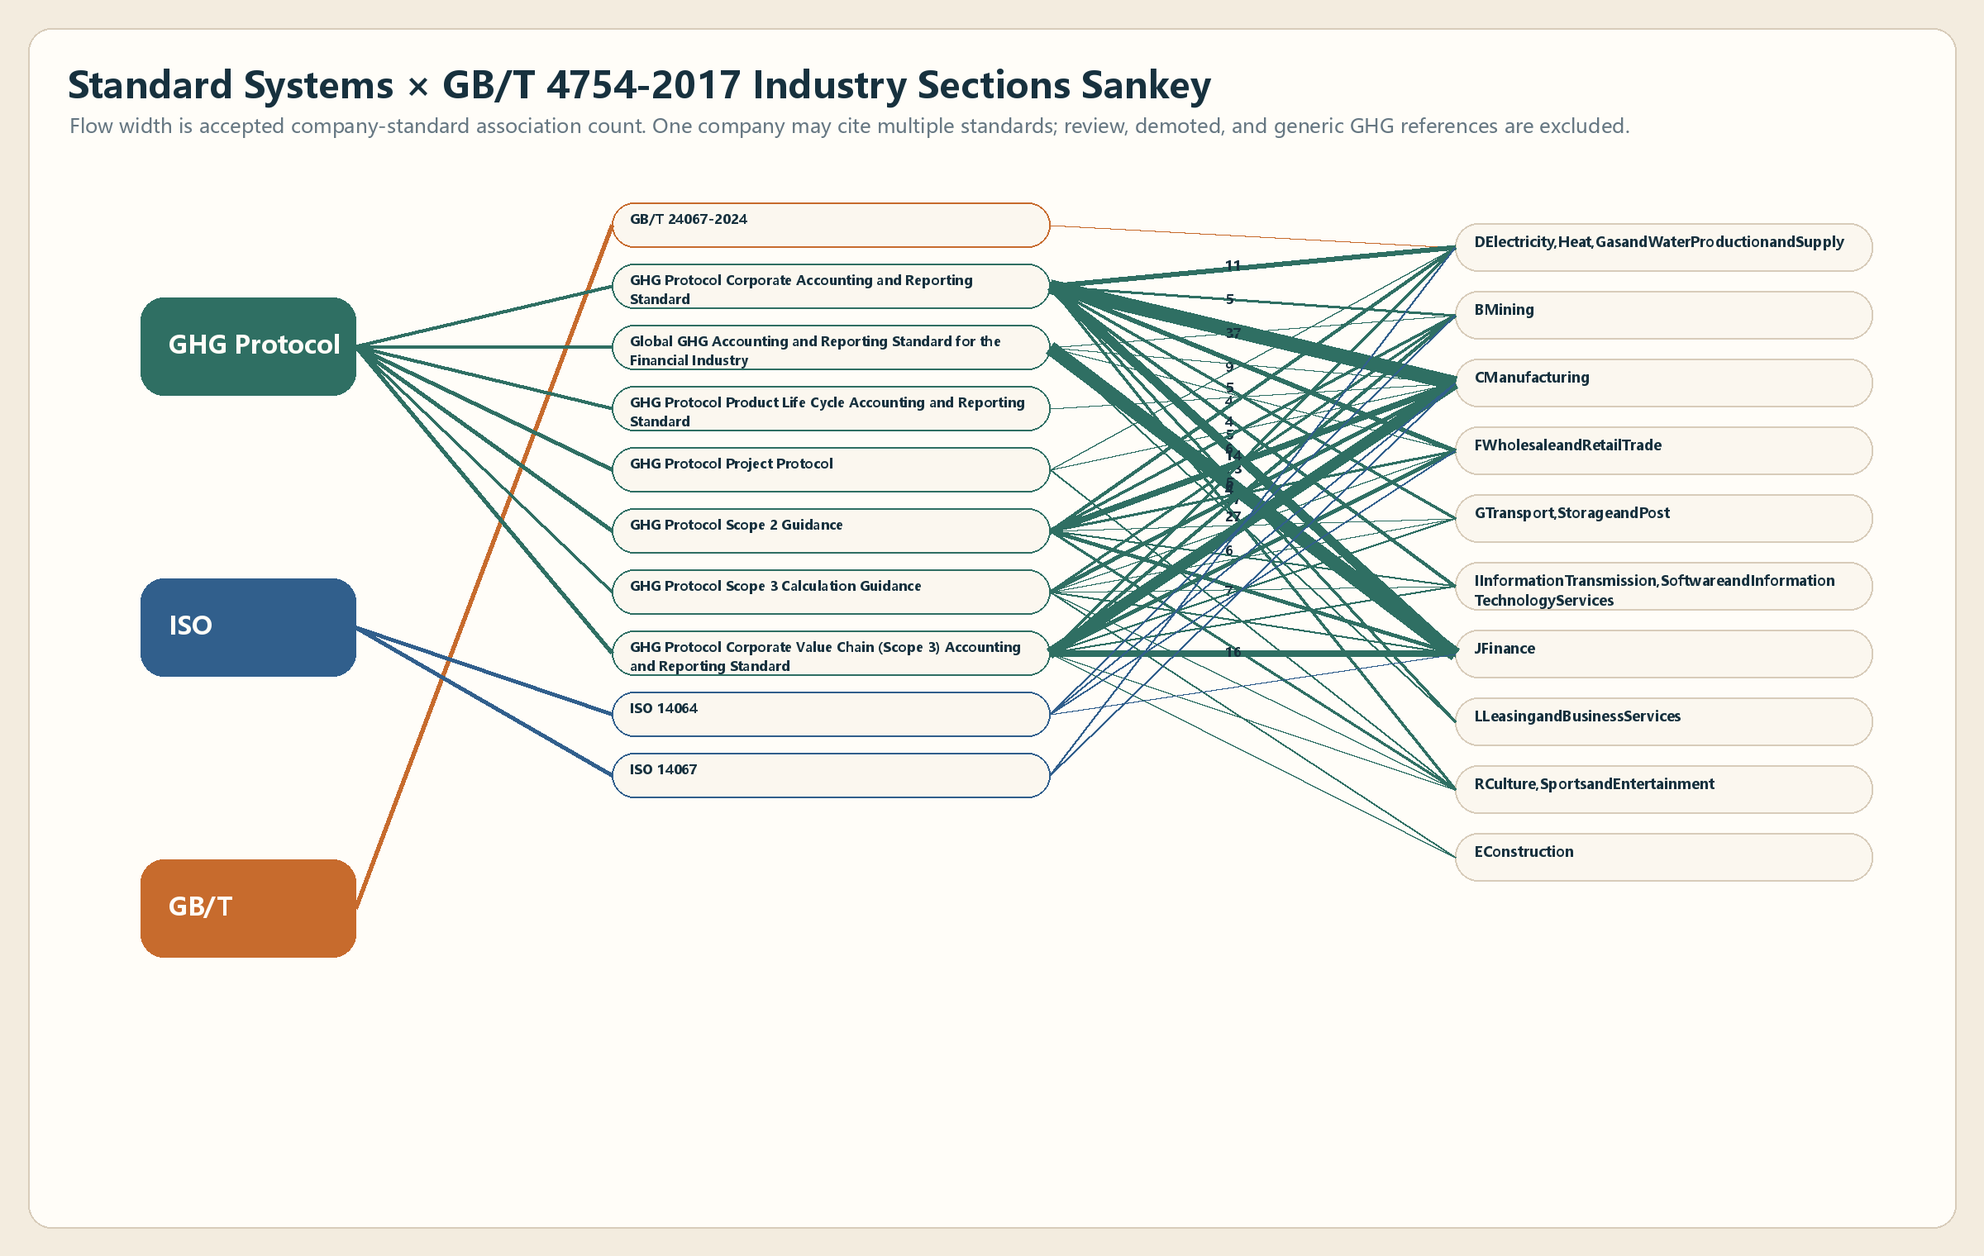
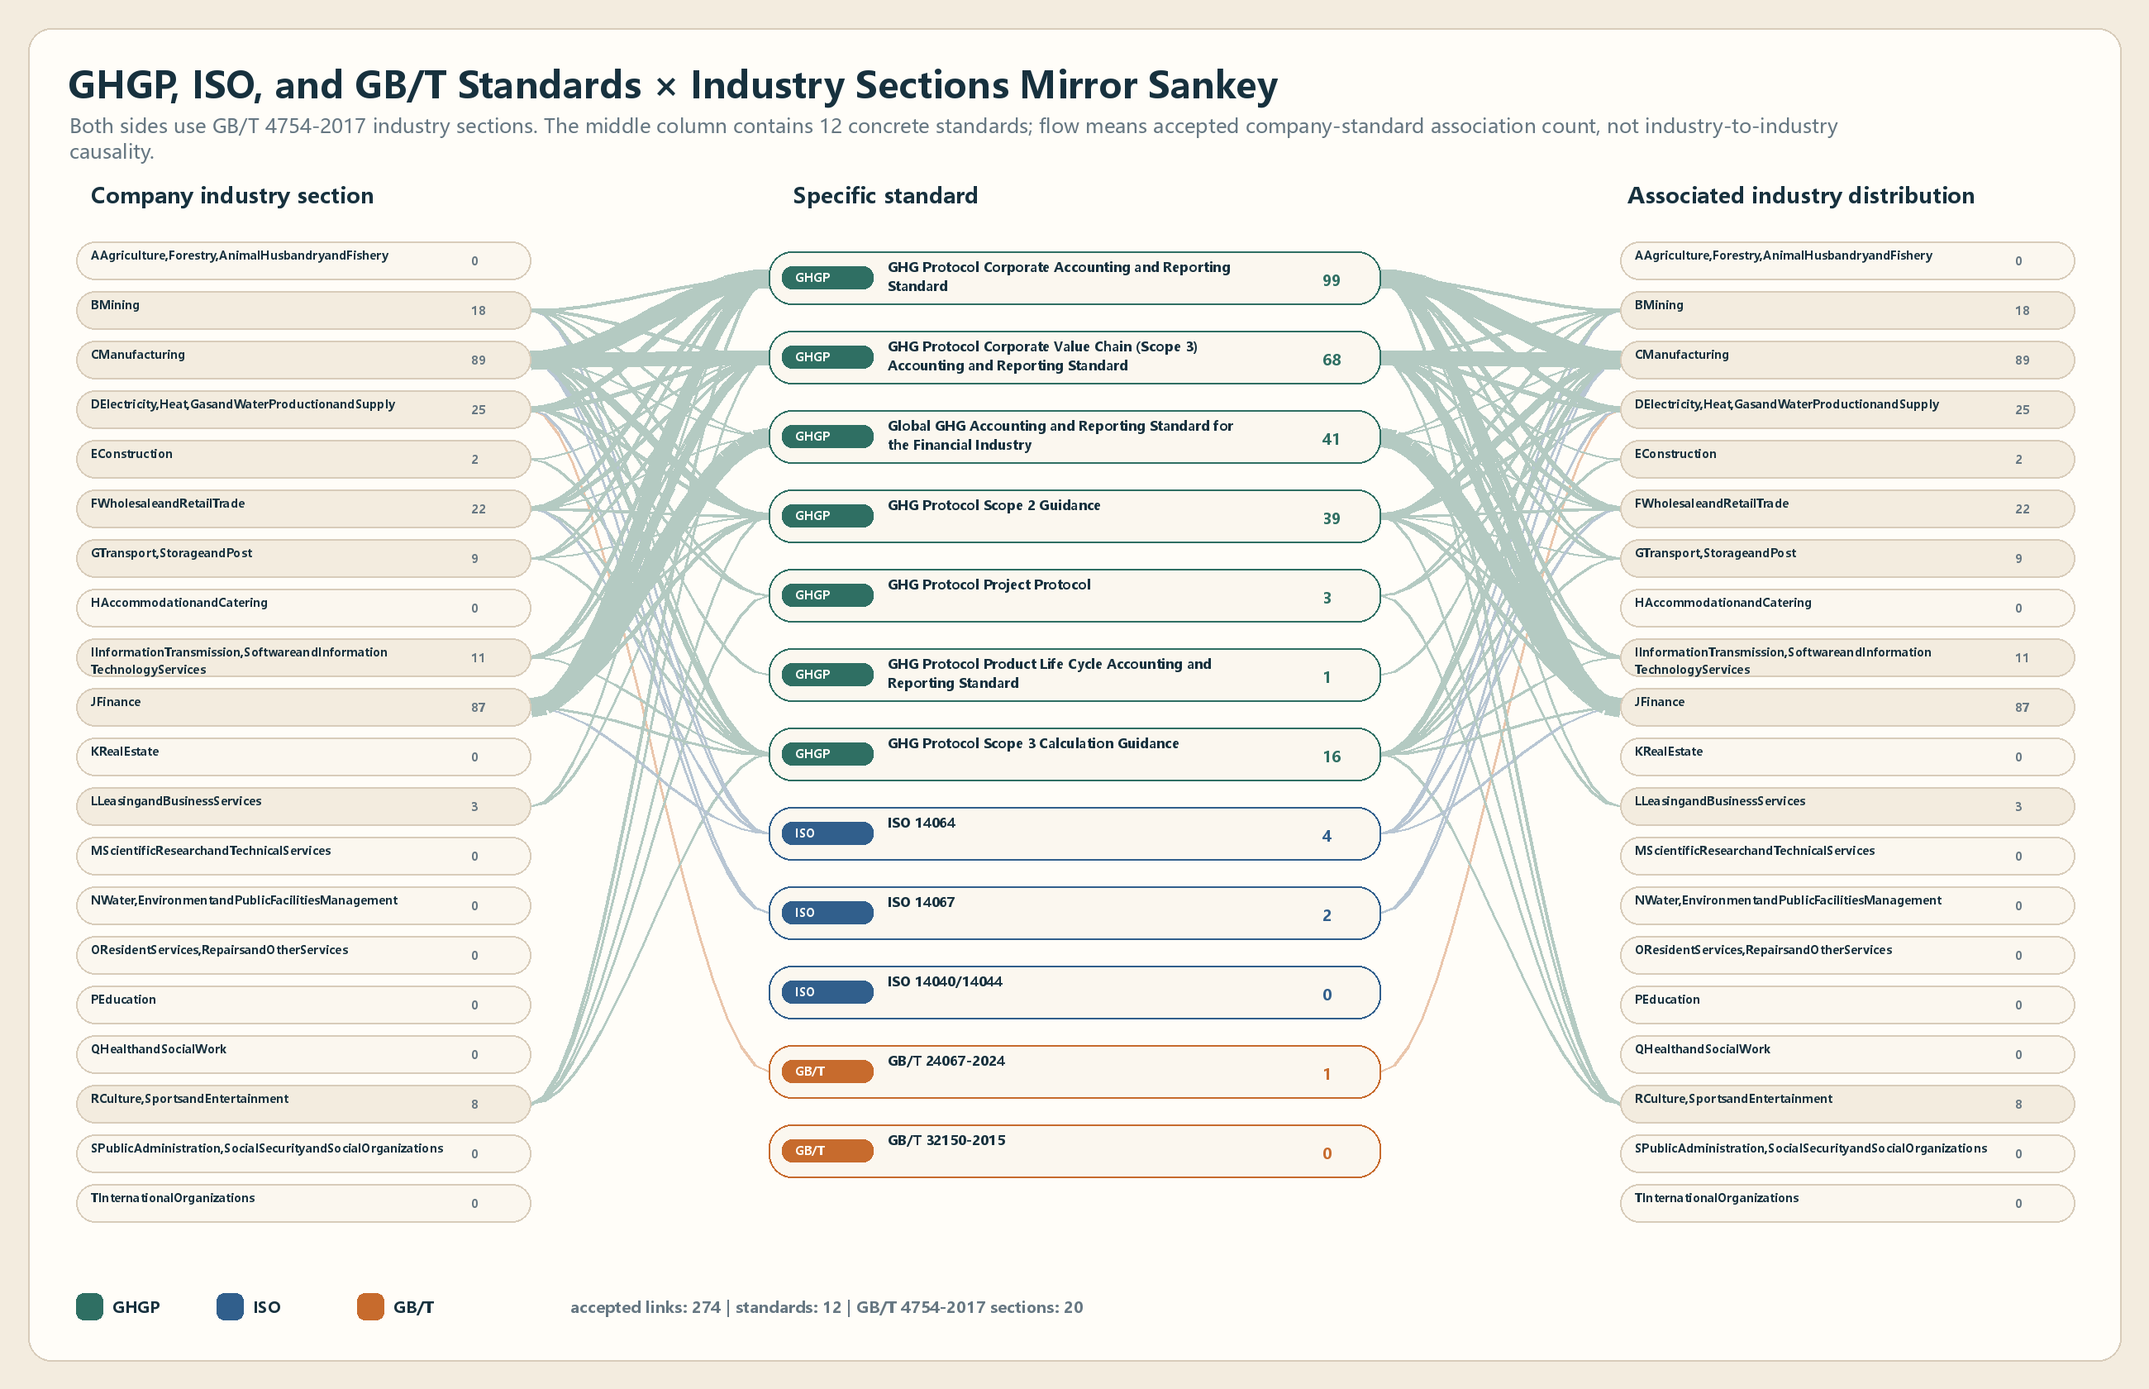
Fix standard industry mirror Sankey

diff --git a/assets/js/industry_outputs_widgets.js b/assets/js/industry_outputs_widgets.js
@@ -7,8 +7,8 @@
 
   const text = {
     zh: {
-      sankeyTitle: "标准体系 × GB/T 4754-2017 行业门类桑基图",
-      sankeyLead: "行业节点采用 GB/T 4754-2017 门类口径；流量表示 accepted 企业-标准关联数。同一企业可能关联多个标准，因此流量总和不等于去重企业总数。12 个展示标准以 registry 为准，暂无 accepted flow 的指定标准保留在下载清单中作为待补证据节点。",
+      sankeyTitle: "GHGP、ISO、GB/T 标准与国民经济行业门类的宏观关联分布",
+      sankeyLead: "镜像桑基图采用“企业所属行业 → 具体标准 → 关联行业分布”三栏结构。左右两侧均为 GB/T 4754-2017 国民经济行业门类，中间为需求方指定的 12 个具体标准节点；流量表示 accepted 企业-标准关联数，不表示行业之间的流动或因果关系。",
       primaryTitle: "初级/次级数据证据链导出",
       primaryLead: "强证据层只包含企业报告原文明示 primary-data 百分比；method-row 来源结构推断不等同于审计级计算权重，缺披露不等于 0。",
       emissionsTitle: "完整可比总排放主榜与行业门类排行",
@@ -32,8 +32,8 @@
       tableMissing: "未入完整主榜",
     },
     en: {
-      sankeyTitle: "Standard Systems × GB/T 4754-2017 Industry Sections Sankey",
-      sankeyLead: "Industry nodes use GB/T 4754-2017 section-level classes. Flow means accepted company-standard association count; one company may cite multiple standards. The 12 display standards follow the registry; requested standards without accepted flow are kept in the downloadable registry as evidence-pending nodes.",
+      sankeyTitle: "GHGP, ISO, and GB/T Standards × Industry Sections Mirror Sankey",
+      sankeyLead: "This mirror Sankey uses a three-column structure: company industry section → concrete standard → associated industry distribution. Both sides use the same GB/T 4754-2017 industry-section taxonomy; the middle column contains the 12 requested concrete standards. Flow means accepted company-standard association count, not industry-to-industry movement or causality.",
       primaryTitle: "Primary / Secondary Evidence Chain Exports",
       primaryLead: "Only explicitly reported primary-data percentages are strong evidence. Method-row source-mix inference is not an audit-grade calculation weight; missing disclosure is not zero.",
       emissionsTitle: "Complete Comparable Emissions Ranking and Industry Sections",

diff --git a/reporting-completion-audit.html b/reporting-completion-audit.html
@@ -22,7 +22,7 @@
 <ul>
 <li>生成时间：2026-06-21</li>
 <li>审计矩阵日期：2026-06-07</li>
-<li>PNG manifest 生成时间：2026-07-07T15:17:31+00:00</li>
+<li>PNG manifest 生成时间：2026-07-08T02:46:43+00:00</li>
 <li>总体状态：partial</li>
 <li>是否可以声明全部完成：不可</li>
 </ul>

diff --git a/tools/sync_industry_static_figures.py b/tools/sync_industry_static_figures.py
@@ -1,0 +1,276 @@
+# /// script
+# requires-python = ">=3.11"
+# dependencies = ["Pillow"]
+# ///
+# How to run:
+#   python tools/sync_industry_static_figures.py
+from __future__ import annotations
+
+import hashlib
+import json
+from datetime import UTC, datetime
+from functools import lru_cache
+from pathlib import Path
+from typing import Final
+
+from PIL import Image, ImageDraw, ImageFont
+
+
+ROOT: Final = Path(__file__).resolve().parents[1]
+WB: Final = ROOT / "assets" / "data" / "world500" / "workbench"
+FIGURES: Final = ROOT / "assets" / "figures"
+MANIFEST: Final = FIGURES / "reporting_static_figures_manifest.json"
+PALETTE: Final = {
+    "bg": "#f3ecdf",
+    "paper": "#fffdf8",
+    "ink": "#17313e",
+    "muted": "#667782",
+    "line": "#d8ccba",
+    "ghg": "#2f6f63",
+    "iso": "#315f8c",
+    "gb": "#c76b2d",
+    "warn": "#9b3b2f",
+}
+
+
+def read_rows(name: str) -> list[dict[str, str | int | float | list[str]]]:
+    payload = json.loads((WB / f"{name}.json").read_text(encoding="utf-8"))
+    return payload["rows"]
+
+
+def sha256(path: Path) -> str:
+    return hashlib.sha256(path.read_bytes()).hexdigest()
+
+
+@lru_cache(maxsize=None)
+def font(size: int, bold: bool = False) -> ImageFont.FreeTypeFont | ImageFont.ImageFont:
+    candidates = [
+        "C:/Windows/Fonts/msyhbd.ttc" if bold else "C:/Windows/Fonts/msyh.ttc",
+        "C:/Windows/Fonts/arialbd.ttf" if bold else "C:/Windows/Fonts/arial.ttf",
+    ]
+    for candidate in candidates:
+        path = Path(candidate)
+        if path.exists():
+            return ImageFont.truetype(str(path), size)
+    return ImageFont.load_default()
+
+
+def wrap(draw: ImageDraw.ImageDraw, text: str, fnt: ImageFont.ImageFont, width: int, max_lines: int = 2) -> list[str]:
+    value = " ".join(str(text or "").split())
+    if not value:
+        return []
+    lines: list[str] = []
+    current = ""
+    chars = list(value) if any("\u4e00" <= char <= "\u9fff" for char in value) else value.split()
+    joiner = "" if chars and len(chars[0]) == 1 else " "
+    for token in chars:
+        probe = f"{current}{joiner}{token}".strip()
+        if draw.textbbox((0, 0), probe, font=fnt)[2] <= width:
+            current = probe
+        else:
+            if current:
+                lines.append(current)
+            current = token
+    if current:
+        lines.append(current)
+    if len(lines) > max_lines:
+        lines = lines[:max_lines]
+        lines[-1] = f"{lines[-1].rstrip(' .,;')}..."
+    return lines
+
+
+def text(draw: ImageDraw.ImageDraw, xy: tuple[int, int], value: str, size: int, color: str, width: int, bold: bool = False) -> None:
+    x, y = xy
+    fnt = font(size, bold)
+    for index, line in enumerate(wrap(draw, value, fnt, width, 2)):
+        draw.text((x, y + index * (size + 7)), line, font=fnt, fill=color)
+
+
+def rounded(draw: ImageDraw.ImageDraw, box: tuple[int, int, int, int], fill: str, outline: str = PALETTE["line"]) -> None:
+    draw.rounded_rectangle(box, radius=28, fill=fill, outline=outline, width=2)
+
+
+def render_sankey(lang: str) -> Path:
+    links = read_rows("world500_standard_industry_section_sankey_links")
+    registry = read_rows("standard_industry_sankey_registry")
+    sections = read_rows("national_industry_section_registry")
+    image = Image.new("RGB", (2600, 1680), PALETTE["bg"])
+    draw = ImageDraw.Draw(image)
+    rounded(draw, (34, 34, 2566, 1646), PALETTE["paper"])
+    title = "GHGP、ISO、GB/T 标准与国民经济行业门类的宏观关联分布" if lang == "zh" else "GHGP, ISO, and GB/T Standards × Industry Sections Mirror Sankey"
+    note = "左右两侧均为 GB/T 4754-2017 行业门类，中间为 12 个具体标准节点；流量表示 accepted 企业-标准关联数，镜像布局不表示行业间流动或因果关系。" if lang == "zh" else "Both sides use GB/T 4754-2017 industry sections. The middle column contains 12 concrete standards; flow means accepted company-standard association count, not industry-to-industry causality."
+    draw.text((82, 72), title, font=font(44, True), fill=PALETTE["ink"])
+    text(draw, (84, 135), note, 24, PALETTE["muted"], 2220)
+    column_labels = ("企业所属行业", "具体标准", "关联行业分布") if lang == "zh" else ("Company industry section", "Specific standard", "Associated industry distribution")
+    for x, label in zip((110, 960, 1970), column_labels, strict=True):
+        draw.text((x, 218), label, font=font(26, True), fill=PALETTE["ink"])
+    system_colors = {"GHG Protocol": PALETTE["ghg"], "ISO": PALETTE["iso"], "GB/T": PALETTE["gb"]}
+    flow_colors = {"GHG Protocol": (47, 111, 99, 92), "ISO": (49, 95, 140, 88), "GB/T": (199, 107, 45, 96)}
+    left_x1, left_x2 = 92, 642
+    mid_x1, mid_x2 = 930, 1670
+    right_x1, right_x2 = 1960, 2510
+    section_h, standard_h = 46, 64
+    section_top, standard_top = 292, 304
+    section_step = 60
+    standard_step = 96
+    section_y = {str(row["industry_section_code"]): section_top + index * section_step for index, row in enumerate(sections)}
+    standard_y = {str(row["internal_standard_id"]): standard_top + index * standard_step for index, row in enumerate(registry)}
+    section_total = {str(row["industry_section_code"]): 0 for row in sections}
+    standard_total = {str(row["internal_standard_id"]): 0 for row in registry}
+    for row in links:
+        count = int(row["accepted_link_count"])
+        section_total[str(row["industry_section_code"])] += count
+        standard_total[str(row["internal_standard_id"])] += count
+    max_count = max((int(row["accepted_link_count"]) for row in links), default=1)
+    overlay = Image.new("RGBA", image.size, (0, 0, 0, 0))
+    flow_draw = ImageDraw.Draw(overlay)
+    for row in sorted(links, key=lambda item: int(item["accepted_link_count"])):
+        count = int(row["accepted_link_count"])
+        code = str(row["industry_section_code"])
+        sid = str(row["internal_standard_id"])
+        system = str(row["standard_system"])
+        width = 2 + round(22 * count / max_count)
+        ly = section_y[code] + section_h // 2
+        sy = standard_y[sid] + standard_h // 2
+        points = []
+        for step in range(18):
+            t = step / 17
+            ease = t * t * (3 - 2 * t)
+            points.append((round(left_x2 + (mid_x1 - left_x2) * t), round(ly + (sy - ly) * ease)))
+        flow_draw.line(points, fill=flow_colors[system], width=width)
+        points = []
+        for step in range(18):
+            t = step / 17
+            ease = t * t * (3 - 2 * t)
+            points.append((round(mid_x2 + (right_x1 - mid_x2) * t), round(sy + (ly - sy) * ease)))
+        flow_draw.line(points, fill=flow_colors[system], width=width)
+    image = Image.alpha_composite(image.convert("RGBA"), overlay).convert("RGB")
+    draw = ImageDraw.Draw(image)
+    for row in sections:
+        code = str(row["industry_section_code"])
+        name = str(row["industry_section_name_zh" if lang == "zh" else "industry_section_name_en"])
+        y = section_y[code]
+        fill = PALETTE["bg"] if section_total[code] else "#fbf7ef"
+        for x1, x2 in ((left_x1, left_x2), (right_x1, right_x2)):
+            rounded(draw, (x1, y, x2, y + section_h), fill)
+            text(draw, (x1 + 18, y + 7), f"{code} {name}", 14, PALETTE["ink"], x2 - x1 - 112, True)
+            draw.text((x2 - 72, y + 13), str(section_total[code]), font=font(15, True), fill=PALETTE["muted"])
+    for row in registry:
+        sid = str(row["internal_standard_id"])
+        system = str(row["display_system"])
+        y = standard_y[sid]
+        name = str(row["display_standard_name_zh" if lang == "zh" else "display_standard_name_en"])
+        if lang == "zh":
+            name = name.replace("GHG Protocol", "GHGP")
+        color = system_colors[system]
+        rounded(draw, (mid_x1, y, mid_x2, y + standard_h), "#fbf7ef", color)
+        draw.rounded_rectangle((mid_x1 + 16, y + 18, mid_x1 + 126, y + 45), radius=12, fill=color)
+        draw.text((mid_x1 + 32, y + 22), system.replace(" Protocol", "P"), font=font(14, True), fill=PALETTE["paper"])
+        text(draw, (mid_x1 + 144, y + 8), name, 16, PALETTE["ink"], 430, True)
+        draw.text((mid_x2 - 70, y + 22), str(standard_total[sid]), font=font(18, True), fill=color)
+    legend = [("GHGP", PALETTE["ghg"]), ("ISO", PALETTE["iso"]), ("GB/T", PALETTE["gb"])]
+    for index, (label, color) in enumerate(legend):
+        x = 92 + index * 170
+        draw.rounded_rectangle((x, 1564, x + 32, 1596), radius=9, fill=color)
+        draw.text((x + 44, 1567), label, font=font(19, True), fill=PALETTE["ink"])
+    footer = f"accepted links: {sum(standard_total.values())} | standards: 12 | GB/T 4754-2017 sections: 20"
+    draw.text((690, 1567), footer, font=font(19, True), fill=PALETTE["muted"])
+    out = FIGURES / lang / "world500_standard_industry_section_sankey.png"
+    out.parent.mkdir(parents=True, exist_ok=True)
+    image.save(out)
+    return out
+
+
+def render_emissions(lang: str) -> Path:
+    rows = [row for row in read_rows("world500_emissions_industry_section_coverage_summary") if int(row["published_company_count"]) > 0]
+    image = Image.new("RGB", (2400, 1520), PALETTE["bg"])
+    draw = ImageDraw.Draw(image)
+    rounded(draw, (34, 34, 2366, 1486), PALETTE["paper"])
+    title = "按 GB/T 4754-2017 门类的完整可比排放排行与缺失统计" if lang == "zh" else "Complete Comparable Emissions by GB/T 4754-2017 Industry Section"
+    note = "主榜只包含 Scope 1 + selected Scope 2 + Scope 3 均闭环企业；missing 表示未进入完整主榜，不等于没有披露。" if lang == "zh" else "The main ranking includes only complete Scope 1 + selected Scope 2 + Scope 3 companies. Missing means not in the complete ranking, not no disclosure."
+    draw.text((82, 72), title, font=font(42, True), fill=PALETTE["ink"])
+    text(draw, (84, 132), note, 24, PALETTE["muted"], 1900)
+    max_published = max(int(row["published_company_count"]) for row in rows)
+    for index, row in enumerate(rows):
+        y = 250 + index * 84
+        label = f"{row['industry_section_code']} {row['industry_section_name_zh' if lang == 'zh' else 'industry_section_name_en']}"
+        text(draw, (88, y), str(label), 20, PALETTE["ink"], 520, True)
+        x = 640
+        scale = 1120 / max_published
+        parts = [
+            ("complete_comparable_count", PALETTE["ghg"]),
+            ("partial_emissions_count", PALETTE["iso"]),
+            ("missing_total_emissions_count", PALETTE["warn"]),
+        ]
+        cursor = x
+        for key, color in parts:
+            width = max(3, int(int(row[key]) * scale))
+            draw.rounded_rectangle((cursor, y + 4, cursor + width, y + 38), radius=12, fill=color)
+            cursor += width
+        draw.text((1780, y + 2), f"{row['complete_comparable_count']} / {row['published_company_count']}", font=font(21, True), fill=PALETTE["ink"])
+        draw.text((1930, y + 2), f"missing {row['missing_total_emissions_count']}", font=font(18), fill=PALETTE["muted"])
+    legend = [("complete", PALETTE["ghg"]), ("partial", PALETTE["iso"]), ("missing", PALETTE["warn"])]
+    for index, (label, color) in enumerate(legend):
+        x = 88 + index * 220
+        draw.rounded_rectangle((x, 1370, x + 34, 1404), radius=9, fill=color)
+        draw.text((x + 46, 1372), label, font=font(20, True), fill=PALETTE["ink"])
+    out = FIGURES / lang / "world500_emissions_industry_section_ranking.png"
+    out.parent.mkdir(parents=True, exist_ok=True)
+    image.save(out)
+    return out
+
+
+def update_manifest(outputs: list[Path]) -> None:
+    manifest = json.loads(MANIFEST.read_text(encoding="utf-8"))
+    names = {output.name for output in outputs}
+    manifest["figures"] = [item for item in manifest.get("figures", []) if Path(item["file"]).name not in names]
+    metadata = {
+        "world500_standard_industry_section_sankey.png": (
+            "standard_industry_sankey",
+            "R1_GHG_FINE_SERIES_AND_STANDARD_COMPANY_MAPPING",
+            "GHGP, ISO, and GB/T standards × industry-section mirror Sankey",
+            "GHGP、ISO、GB/T标准与行业门类镜像桑基图",
+            ["standard_industry_sankey_links"],
+        ),
+        "world500_emissions_industry_section_ranking.png": (
+            "emissions_industry_ranking",
+            "R2_TOTAL_EMISSIONS_RANKING_DESC",
+            "Emissions industry-section ranking",
+            "排放行业门类排行与缺失统计",
+            ["emissions_industry_section_outputs"],
+        ),
+    }
+    for output in outputs:
+        figure_no, requirement_id, title_en, title_zh, data_keys = metadata[output.name]
+        manifest["figures"].append({
+            "file": str(output.relative_to(ROOT)).replace("\\", "/"),
+            "lang": output.parent.name,
+            "figure_no": figure_no,
+            "requirement_id": requirement_id,
+            "title_en": title_en,
+            "title_zh": title_zh,
+            "data_keys": data_keys,
+            "page_sections": ["industry_section_outputs"],
+            "claim_status": "partial_evidence_bounded",
+            "can_claim_requirement_complete": False,
+            "static_sync_can_claim_complete": True,
+            "audit_boundary_en": "Generated from GB/T 4754-2017 section-level outputs; review data remain excluded from accepted-flow charts.",
+            "audit_boundary_zh": "基于 GB/T 4754-2017 门类层级输出生成；review 数据不进入 accepted 流量图。",
+            "bytes": output.stat().st_size,
+            "sha256": sha256(output),
+        })
+    manifest["generated_at"] = datetime.now(UTC).replace(microsecond=0).isoformat()
+    MANIFEST.write_text(json.dumps(manifest, ensure_ascii=False, indent=2) + "\n", encoding="utf-8", newline="\n")
+
+
+def main() -> None:
+    outputs = [render_sankey(lang) for lang in ("zh", "en")]
+    outputs += [render_emissions(lang) for lang in ("zh", "en")]
+    update_manifest(outputs)
+    for output in outputs:
+        print(f"Wrote {output.relative_to(ROOT)}")
+    print(f"Updated {MANIFEST.relative_to(ROOT)}")
+
+
+if __name__ == "__main__":
+    main()

diff --git a/REPORTING_COMPLETION_AUDIT_ZH.md b/REPORTING_COMPLETION_AUDIT_ZH.md
@@ -2,7 +2,7 @@
 
 - 生成时间：2026-06-21
 - 审计矩阵日期：2026-06-07
-- PNG manifest 生成时间：2026-07-07T15:17:31+00:00
+- PNG manifest 生成时间：2026-07-08T02:46:43+00:00
 - 总体状态：partial
 - 是否可以声明全部完成：不可
 
